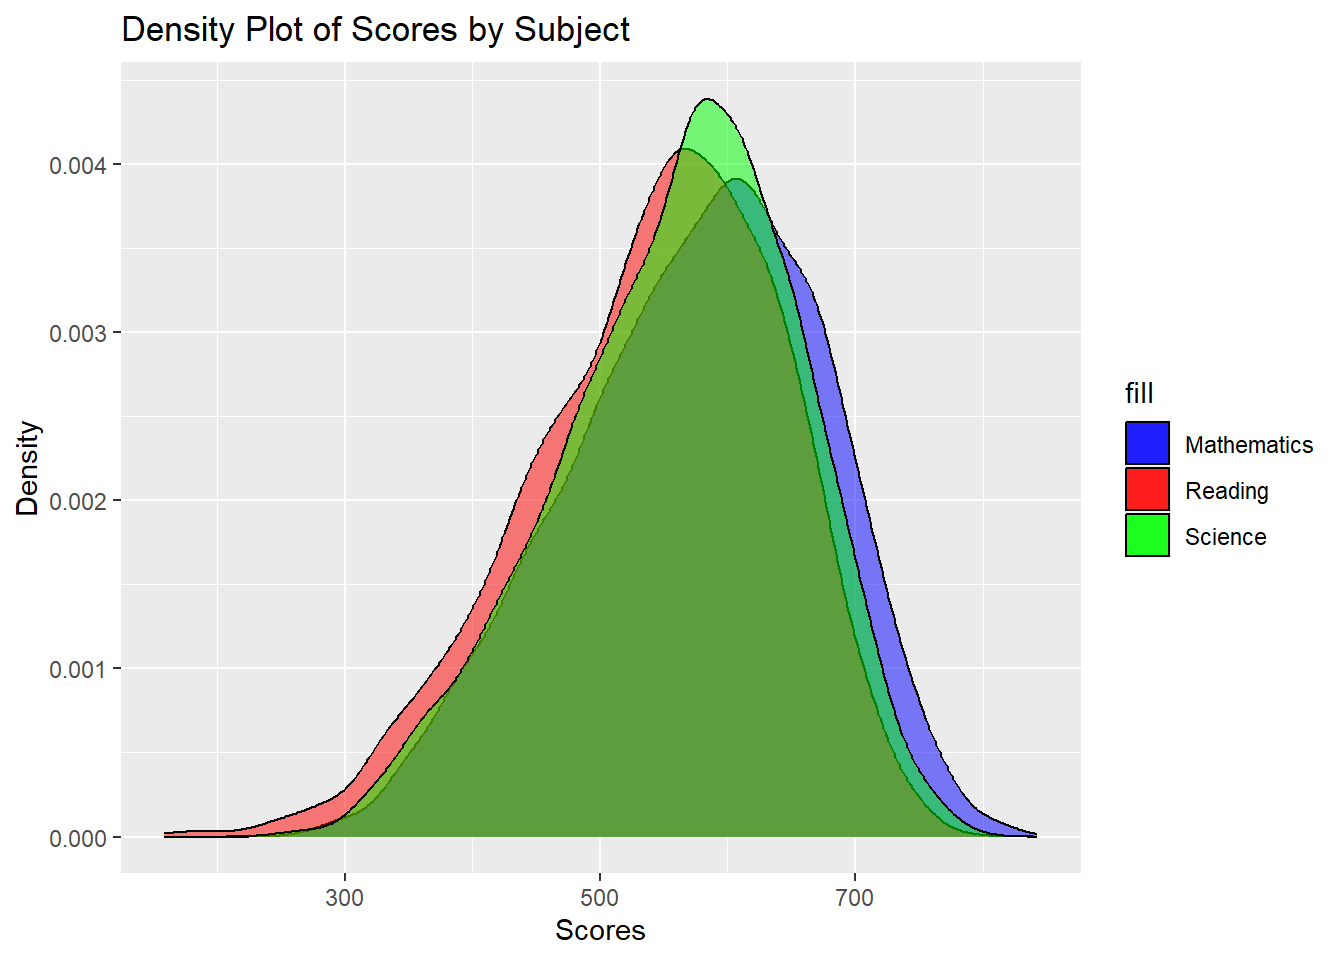
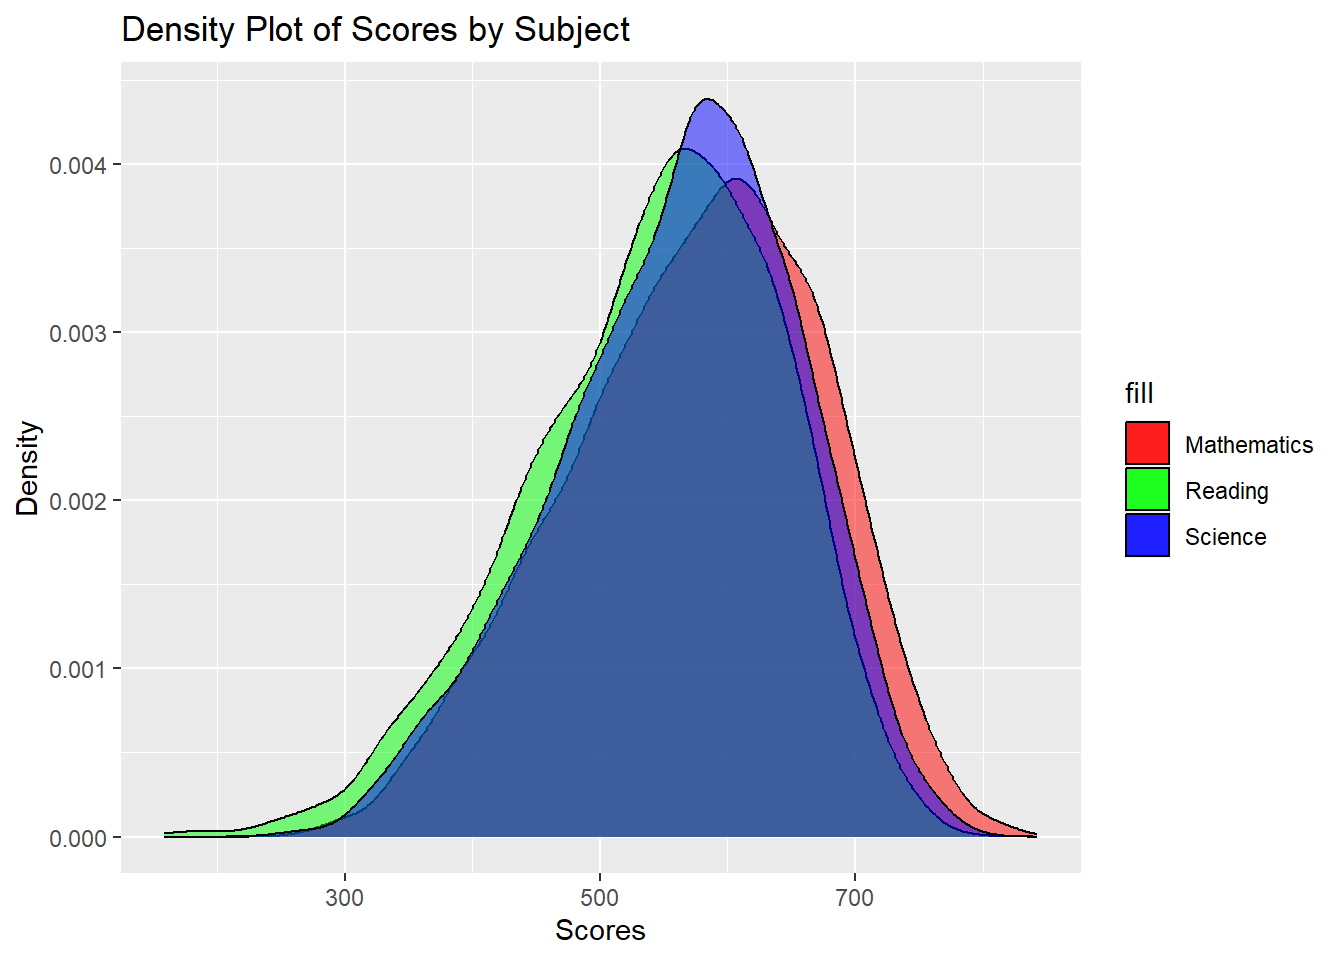
commit after 2update of takehome1

Changed region(s): [[0.125, 0.0938, 0.75, 0.875], [0.8125, 0.4375, 0.875, 0.5938]]

diff --git a/_site/Take-home_Ex/Take-home_ex1.html b/_site/Take-home_Ex/Take-home_ex1.html
@@ -190,11 +190,13 @@ pre > code.sourceCode > span > a:first-child::before { text-decoration: underlin
   </ul></li>
   <li><a href="#exploratory-data-analysis" id="toc-exploratory-data-analysis" class="nav-link" data-scroll-target="#exploratory-data-analysis">3.0 Exploratory Data Analysis</a>
   <ul class="collapse">
-  <li><a href="#distribution-anaylsis" id="toc-distribution-anaylsis" class="nav-link" data-scroll-target="#distribution-anaylsis">3.1 Distribution anaylsis</a></li>
+  <li><a href="#distribution-anaylsis" id="toc-distribution-anaylsis" class="nav-link" data-scroll-target="#distribution-anaylsis">3.1 Distribution Anaylsis</a></li>
   <li><a href="#stacked-density-plot" id="toc-stacked-density-plot" class="nav-link" data-scroll-target="#stacked-density-plot">3.2 Stacked Density Plot</a></li>
-  <li><a href="#boxplot-of-subjects" id="toc-boxplot-of-subjects" class="nav-link" data-scroll-target="#boxplot-of-subjects">3.3 Boxplot of Subjects</a></li>
+  <li><a href="#school-impact-on-singapore-student-subjects-score" id="toc-school-impact-on-singapore-student-subjects-score" class="nav-link" data-scroll-target="#school-impact-on-singapore-student-subjects-score">3.3 School Impact on Singapore Student Subjects Score</a></li>
+  <li><a href="#gender-impact-on-singapore-student-subjects-score" id="toc-gender-impact-on-singapore-student-subjects-score" class="nav-link" data-scroll-target="#gender-impact-on-singapore-student-subjects-score">3.4 Gender Impact on Singapore Student Subjects Score</a></li>
+  <li><a href="#index-of-economic-social-cultural-status-impact-on-singapore-student-subjects-score" id="toc-index-of-economic-social-cultural-status-impact-on-singapore-student-subjects-score" class="nav-link" data-scroll-target="#index-of-economic-social-cultural-status-impact-on-singapore-student-subjects-score">3.5 Index of Economic, Social, Cultural Status Impact on Singapore Student Subjects Score</a></li>
   </ul></li>
-  <li><a href="#summary" id="toc-summary" class="nav-link" data-scroll-target="#summary">4.0 Summary</a></li>
+  <li><a href="#conclusion" id="toc-conclusion" class="nav-link" data-scroll-target="#conclusion">Conclusion</a></li>
   </ul>
 </nav>
     </div>
@@ -230,7 +232,6 @@ pre > code.sourceCode > span > a:first-child::before { text-decoration: underlin
 
 </header>
 
-<p>panel tabset 做tab</p>
 <section id="project-overview" class="level1">
 <h1>1.0 Project Overview</h1>
 <section id="project-brief" class="level2">
@@ -253,7 +254,7 @@ pre > code.sourceCode > span > a:first-child::before { text-decoration: underlin
 <h2 class="anchored" data-anchor-id="install-load-r-packages">2.1 Install &amp; load R packages</h2>
 <p>Installing necessary R packages that will be needed for this exercise. To load the requried packages the code chunk below use pacman::p_load() function is used to unsure that the packages are load to the current R work environment.</p>
 <div class="cell">
-<div class="sourceCode cell-code" id="cb1"><pre class="sourceCode r code-with-copy"><code class="sourceCode r"><span id="cb1-1"><a href="#cb1-1" aria-hidden="true" tabindex="-1"></a>pacman<span class="sc">::</span><span class="fu">p_load</span>(tidyverse, ggplot2, ggthemes, gridExtra, ggrepel, patchwork, hrbrthemes)</span></code><button title="Copy to Clipboard" class="code-copy-button"><i class="bi"></i></button></pre></div>
+<div class="sourceCode cell-code" id="cb1"><pre class="sourceCode r code-with-copy"><code class="sourceCode r"><span id="cb1-1"><a href="#cb1-1" aria-hidden="true" tabindex="-1"></a>pacman<span class="sc">::</span><span class="fu">p_load</span>(tidyverse, ggdist, ggplot2, ggthemes, gridExtra, ggrepel, patchwork, hrbrthemes, dplyr)</span></code><button title="Copy to Clipboard" class="code-copy-button"><i class="bi"></i></button></pre></div>
 </div>
 </section>
 <section id="importing-pisa-data" class="level2">
@@ -280,6 +281,16 @@ pre > code.sourceCode > span > a:first-child::before { text-decoration: underlin
 <span id="cb3-14"><a href="#cb3-14" aria-hidden="true" tabindex="-1"></a><span class="co"># Combine selected columns and new calculations into sg_stu_eda</span></span>
 <span id="cb3-15"><a href="#cb3-15" aria-hidden="true" tabindex="-1"></a>sg_stu_eda <span class="ot">&lt;-</span> <span class="fu">cbind</span>(selected_columns, mean_pv_math, mean_pv_read, mean_pv_scie)</span></code><button title="Copy to Clipboard" class="code-copy-button"><i class="bi"></i></button></pre></div>
 </div>
+<p>Total of 7 Variables are used</p>
+<ul>
+<li><p><strong>CNTSCHID</strong>, (Intl. School ID)</p></li>
+<li><p><strong>ST004D01T</strong>, (Students gender)</p></li>
+<li><p><strong>CNTSTUID</strong>, (Intl. Student ID)</p></li>
+<li><p><strong>ESCS</strong>, (Index of economic, social, and culture status)</p></li>
+<li><p><strong>mean_pv_math</strong>, (average of plausible value 1-10 of mathematics)</p></li>
+<li><p><strong>mean_pv_read</strong>, (average of plausible value 1-10 of reading)</p></li>
+<li><p><strong>mean_pv_scie</strong>, (average of plausible value 1-10 of science)</p></li>
+</ul>
 <div class="cell">
 <div class="sourceCode cell-code" id="cb4"><pre class="sourceCode r code-with-copy"><code class="sourceCode r"><span id="cb4-1"><a href="#cb4-1" aria-hidden="true" tabindex="-1"></a><span class="fu">head</span>(sg_stu_eda,<span class="dv">10</span>)</span></code><button title="Copy to Clipboard" class="code-copy-button"><i class="bi"></i></button></pre></div>
 <div class="cell-output cell-output-stdout">
@@ -301,7 +312,7 @@ pre > code.sourceCode > span > a:first-child::before { text-decoration: underlin
 <section id="exploratory-data-analysis" class="level1">
 <h1>3.0 Exploratory Data Analysis</h1>
 <section id="distribution-anaylsis" class="level2">
-<h2 class="anchored" data-anchor-id="distribution-anaylsis">3.1 Distribution anaylsis</h2>
+<h2 class="anchored" data-anchor-id="distribution-anaylsis">3.1 Distribution Anaylsis</h2>
 <p>Before doing any further analysis, it is always good to look at the distribution of the data, so we can look at the distribution of the three subjects using histograms.</p>
 <div class="tabset-margin-container"></div><div class="panel-tabset">
 <ul class="nav nav-tabs" role="tablist"><li class="nav-item" role="presentation"><a class="nav-link active" id="tabset-1-1-tab" data-bs-toggle="tab" data-bs-target="#tabset-1-1" role="tab" aria-controls="tabset-1-1" aria-selected="true">Distribution of subjects</a></li><li class="nav-item" role="presentation"><a class="nav-link" id="tabset-1-2-tab" data-bs-toggle="tab" data-bs-target="#tabset-1-2" role="tab" aria-controls="tabset-1-2" aria-selected="false">codes</a></li></ul>
@@ -356,19 +367,97 @@ pre > code.sourceCode > span > a:first-child::before { text-decoration: underlin
 <span id="cb7-5"><a href="#cb7-5" aria-hidden="true" tabindex="-1"></a>  <span class="fu">ggtitle</span>(<span class="st">"Density Plot of Scores by Subject"</span>) <span class="sc">+</span></span>
 <span id="cb7-6"><a href="#cb7-6" aria-hidden="true" tabindex="-1"></a>  <span class="fu">xlab</span>(<span class="st">"Scores"</span>) <span class="sc">+</span></span>
 <span id="cb7-7"><a href="#cb7-7" aria-hidden="true" tabindex="-1"></a>  <span class="fu">ylab</span>(<span class="st">"Density"</span>) <span class="sc">+</span></span>
-<span id="cb7-8"><a href="#cb7-8" aria-hidden="true" tabindex="-1"></a>  <span class="fu">scale_fill_manual</span>(<span class="at">values =</span> <span class="fu">c</span>(<span class="st">"Mathematics"</span> <span class="ot">=</span> <span class="st">"blue"</span>, <span class="st">"Reading"</span> <span class="ot">=</span> <span class="st">"red"</span>, <span class="st">"Science"</span> <span class="ot">=</span> <span class="st">"green"</span>))</span></code><button title="Copy to Clipboard" class="code-copy-button"><i class="bi"></i></button></pre></div>
+<span id="cb7-8"><a href="#cb7-8" aria-hidden="true" tabindex="-1"></a>  <span class="fu">scale_fill_manual</span>(<span class="at">values =</span> <span class="fu">c</span>(<span class="st">"Mathematics"</span> <span class="ot">=</span> <span class="st">"red"</span>, <span class="st">"Reading"</span> <span class="ot">=</span> <span class="st">"green"</span>, <span class="st">"Science"</span> <span class="ot">=</span> <span class="st">"blue"</span>))</span></code><button title="Copy to Clipboard" class="code-copy-button"><i class="bi"></i></button></pre></div>
 </div>
 </div>
 </div>
 </div>
-<p>The stacked density plot gives a more clear view on the performance of these three subjects for Singapore students, we can see that it supports the observations we discovered in section 3.1. Singapore students perform mathematics as the</p>
+<p>The density plot reinforces the findings from the distribution analysis, showing that Mathematics is a standout subject for Singapore students, with a distribution indicating not only higher peak scores but also a broader range of high achievers. The overlap between Science and Reading suggests similar performance levels in these subjects, with a less pronounced rightward extension than Mathematics, implying fewer high scorers. The shape and spread of the distributions indicate variability in student performance across all subjects, with Mathematics displaying a potential for both higher peaks and greater spread, hinting at a wider variance in achievement. These visual cues complement the earlier analysis, underscoring Mathematics as a strong suit in the Singapore education system while highlighting the need for continued focus on literacy to address the lower performance and greater variability observed in Reading.</p>
 </section>
-<section id="boxplot-of-subjects" class="level2">
-<h2 class="anchored" data-anchor-id="boxplot-of-subjects">3.3 Boxplot of Subjects</h2>
+<section id="school-impact-on-singapore-student-subjects-score" class="level2">
+<h2 class="anchored" data-anchor-id="school-impact-on-singapore-student-subjects-score">3.3 School Impact on Singapore Student Subjects Score</h2>
+<p>It is also important to examine whether students in different schools exhibit variations in their performance across various subjects, as some schools may excel in teaching certain subjects compared to others. Since the school id has a very large sample, we are using a heatmap to display the significance.</p>
+<div class="tabset-margin-container"></div><div class="panel-tabset">
+<ul class="nav nav-tabs" role="tablist"><li class="nav-item" role="presentation"><a class="nav-link active" id="tabset-3-1-tab" data-bs-toggle="tab" data-bs-target="#tabset-3-1" role="tab" aria-controls="tabset-3-1" aria-selected="true">Heatmap</a></li><li class="nav-item" role="presentation"><a class="nav-link" id="tabset-3-2-tab" data-bs-toggle="tab" data-bs-target="#tabset-3-2" role="tab" aria-controls="tabset-3-2" aria-selected="false">Codes</a></li></ul>
+<div class="tab-content">
+<div id="tabset-3-1" class="tab-pane active" role="tabpanel" aria-labelledby="tabset-3-1-tab">
+<div class="cell">
+<div class="cell-output-display">
+<p><img src="Take-home_ex1_files/figure-html/heatmap-panel, eval- TRUE-1.png" class="img-fluid" width="672"></p>
+</div>
+</div>
+</div>
+<div id="tabset-3-2" class="tab-pane" role="tabpanel" aria-labelledby="tabset-3-2-tab">
+<div class="cell">
+<div class="sourceCode cell-code" id="cb8"><pre class="sourceCode r code-with-copy"><code class="sourceCode r"><span id="cb8-1"><a href="#cb8-1" aria-hidden="true" tabindex="-1"></a>sg_stu_eda_long <span class="ot">&lt;-</span> sg_stu_eda <span class="sc">%&gt;%</span></span>
+<span id="cb8-2"><a href="#cb8-2" aria-hidden="true" tabindex="-1"></a>  <span class="fu">pivot_longer</span>(</span>
+<span id="cb8-3"><a href="#cb8-3" aria-hidden="true" tabindex="-1"></a>    <span class="at">cols =</span> <span class="fu">starts_with</span>(<span class="st">"mean_pv_"</span>), </span>
+<span id="cb8-4"><a href="#cb8-4" aria-hidden="true" tabindex="-1"></a>    <span class="at">names_to =</span> <span class="st">"subject"</span>, </span>
+<span id="cb8-5"><a href="#cb8-5" aria-hidden="true" tabindex="-1"></a>    <span class="at">values_to =</span> <span class="st">"score"</span></span>
+<span id="cb8-6"><a href="#cb8-6" aria-hidden="true" tabindex="-1"></a>  ) <span class="sc">%&gt;%</span></span>
+<span id="cb8-7"><a href="#cb8-7" aria-hidden="true" tabindex="-1"></a>  <span class="fu">mutate</span>(<span class="at">CNTSCHID =</span> <span class="fu">as.factor</span>(CNTSCHID), </span>
+<span id="cb8-8"><a href="#cb8-8" aria-hidden="true" tabindex="-1"></a>         <span class="at">subject =</span> <span class="fu">factor</span>(subject, <span class="at">levels =</span> <span class="fu">c</span>(<span class="st">"mean_pv_math"</span>, <span class="st">"mean_pv_read"</span>, <span class="st">"mean_pv_scie"</span>),</span>
+<span id="cb8-9"><a href="#cb8-9" aria-hidden="true" tabindex="-1"></a>                          <span class="at">labels =</span> <span class="fu">c</span>(<span class="st">"Mathematics"</span>, <span class="st">"Reading"</span>, <span class="st">"Science"</span>)))</span>
+<span id="cb8-10"><a href="#cb8-10" aria-hidden="true" tabindex="-1"></a></span>
+<span id="cb8-11"><a href="#cb8-11" aria-hidden="true" tabindex="-1"></a><span class="fu">ggplot</span>(sg_stu_eda_long, <span class="fu">aes</span>(<span class="at">x =</span> CNTSCHID, <span class="at">y =</span> subject, <span class="at">fill =</span> score)) <span class="sc">+</span></span>
+<span id="cb8-12"><a href="#cb8-12" aria-hidden="true" tabindex="-1"></a>  <span class="fu">geom_tile</span>() <span class="sc">+</span></span>
+<span id="cb8-13"><a href="#cb8-13" aria-hidden="true" tabindex="-1"></a>  <span class="fu">scale_fill_gradient</span>(<span class="at">low =</span> <span class="st">"white"</span>, <span class="at">high =</span> <span class="st">"blue"</span>) <span class="sc">+</span>  <span class="co"># Adjust the color scale as needed</span></span>
+<span id="cb8-14"><a href="#cb8-14" aria-hidden="true" tabindex="-1"></a>  <span class="fu">theme_minimal</span>() <span class="sc">+</span></span>
+<span id="cb8-15"><a href="#cb8-15" aria-hidden="true" tabindex="-1"></a>  <span class="fu">labs</span>(<span class="at">x =</span> <span class="st">"School ID"</span>, <span class="at">y =</span> <span class="st">"Subject"</span>, </span>
+<span id="cb8-16"><a href="#cb8-16" aria-hidden="true" tabindex="-1"></a>       <span class="at">title =</span> <span class="st">"Heatmap of Subject Scores Across Schools"</span>)</span></code><button title="Copy to Clipboard" class="code-copy-button"><i class="bi"></i></button></pre></div>
+</div>
+</div>
+</div>
+</div>
+<p>From the heatmap presented earlier, several noteworthy observations can be made. Firstly, it’s evident that students from certain schools consistently maintain similar scores across all three subjects. However, in other schools, there is a noticeable trend where science and mathematics scores are higher, while reading scores appear to be comparatively lower.</p>
+<p>Furthermore, it’s interesting to note that schools achieving high scores in mathematics also tend to perform well in science, suggesting a potential correlation between these two subjects. Additionally, there are instances, albeit rare, where certain schools excel in reading, outperforming their scores in the other two subjects. These observations indicate the presence of distinct patterns and potentially valuable insights into the performance of students across different schools and subjects.</p>
+</section>
+<section id="gender-impact-on-singapore-student-subjects-score" class="level2">
+<h2 class="anchored" data-anchor-id="gender-impact-on-singapore-student-subjects-score">3.4 Gender Impact on Singapore Student Subjects Score</h2>
+<p>Next, we examine the gender impact on Singapore student’s different subject scores, as from what most people typically knows different gender perform differently in certain subjects, so it is important to check that if gender shows significance on the subjects score.</p>
+<div class="tabset-margin-container"></div><div class="panel-tabset">
+<ul class="nav nav-tabs" role="tablist"><li class="nav-item" role="presentation"><a class="nav-link active" id="tabset-4-1-tab" data-bs-toggle="tab" data-bs-target="#tabset-4-1" role="tab" aria-controls="tabset-4-1" aria-selected="true">Boxplot</a></li><li class="nav-item" role="presentation"><a class="nav-link" id="tabset-4-2-tab" data-bs-toggle="tab" data-bs-target="#tabset-4-2" role="tab" aria-controls="tabset-4-2" aria-selected="false">Codes</a></li></ul>
+<div class="tab-content">
+<div id="tabset-4-1" class="tab-pane active" role="tabpanel" aria-labelledby="tabset-4-1-tab">
+<div class="cell">
+<div class="cell-output-display">
+<p><img src="Take-home_ex1_files/figure-html/boxplot-panel, eval- TRUE-1.png" class="img-fluid" width="672"></p>
+</div>
+</div>
+</div>
+<div id="tabset-4-2" class="tab-pane" role="tabpanel" aria-labelledby="tabset-4-2-tab">
+<div class="cell">
+<div class="sourceCode cell-code" id="cb9"><pre class="sourceCode r code-with-copy"><code class="sourceCode r"><span id="cb9-1"><a href="#cb9-1" aria-hidden="true" tabindex="-1"></a>sg_stu_eda_long<span class="sc">$</span>ST004D01T <span class="ot">&lt;-</span> <span class="fu">factor</span>(sg_stu_eda_long<span class="sc">$</span>ST004D01T, <span class="at">levels =</span> <span class="fu">c</span>(<span class="st">"1"</span>, <span class="st">"2"</span>), <span class="at">labels =</span> <span class="fu">c</span>(<span class="st">"Female"</span>, <span class="st">"Male"</span>))</span>
+<span id="cb9-2"><a href="#cb9-2" aria-hidden="true" tabindex="-1"></a></span>
+<span id="cb9-3"><a href="#cb9-3" aria-hidden="true" tabindex="-1"></a><span class="fu">ggplot</span>(sg_stu_eda_long, <span class="fu">aes</span>(<span class="at">x =</span> ST004D01T, <span class="at">y =</span> score, <span class="at">fill =</span> subject)) <span class="sc">+</span></span>
+<span id="cb9-4"><a href="#cb9-4" aria-hidden="true" tabindex="-1"></a>  <span class="fu">geom_boxplot</span>(<span class="at">position =</span> <span class="fu">position_dodge</span>(<span class="dv">1</span>)) <span class="sc">+</span></span>
+<span id="cb9-5"><a href="#cb9-5" aria-hidden="true" tabindex="-1"></a>  <span class="fu">stat_summary</span>(<span class="at">fun =</span> mean, <span class="at">geom =</span> <span class="st">"point"</span>, <span class="at">shape =</span> <span class="dv">20</span>, <span class="at">size =</span> <span class="dv">3</span>, <span class="at">color =</span> <span class="st">"darkred"</span>, <span class="at">position =</span> <span class="fu">position_dodge</span>(<span class="dv">1</span>)) <span class="sc">+</span></span>
+<span id="cb9-6"><a href="#cb9-6" aria-hidden="true" tabindex="-1"></a>  <span class="fu">stat_summary</span>(<span class="at">fun =</span> mean, <span class="at">geom =</span> <span class="st">"text"</span>, <span class="fu">aes</span>(<span class="at">label =</span> <span class="fu">round</span>(..y.., <span class="dv">1</span>)), <span class="at">vjust =</span> <span class="fl">1.5</span>, <span class="at">color=</span><span class="st">"darkblue"</span>,<span class="at">position=</span><span class="fu">position_dodge</span>(<span class="dv">1</span>)) <span class="sc">+</span></span>
+<span id="cb9-7"><a href="#cb9-7" aria-hidden="true" tabindex="-1"></a>  <span class="fu">stat_summary</span>(<span class="at">fun =</span> median, <span class="at">geom =</span> <span class="st">"line"</span>, <span class="at">size =</span> <span class="fl">0.5</span>, <span class="at">color =</span> <span class="st">"darkblue"</span>, <span class="at">position =</span> <span class="fu">position_dodge</span>(<span class="dv">1</span>)) <span class="sc">+</span></span>
+<span id="cb9-8"><a href="#cb9-8" aria-hidden="true" tabindex="-1"></a>  <span class="fu">theme_minimal</span>() <span class="sc">+</span></span>
+<span id="cb9-9"><a href="#cb9-9" aria-hidden="true" tabindex="-1"></a>  <span class="fu">theme</span>(<span class="at">axis.text.x =</span> <span class="fu">element_text</span>(<span class="at">angle =</span> <span class="dv">90</span>, <span class="at">hjust =</span> <span class="dv">1</span>), </span>
+<span id="cb9-10"><a href="#cb9-10" aria-hidden="true" tabindex="-1"></a>        <span class="at">legend.position =</span> <span class="st">"bottom"</span>) <span class="sc">+</span></span>
+<span id="cb9-11"><a href="#cb9-11" aria-hidden="true" tabindex="-1"></a>  <span class="fu">labs</span>(<span class="at">x =</span> <span class="st">"Gender"</span>, <span class="at">y =</span> <span class="st">"Score"</span>, </span>
+<span id="cb9-12"><a href="#cb9-12" aria-hidden="true" tabindex="-1"></a>       <span class="at">title =</span> <span class="st">"Boxplot of Subject Scores Across Gender"</span>, </span>
+<span id="cb9-13"><a href="#cb9-13" aria-hidden="true" tabindex="-1"></a>       <span class="at">fill =</span> <span class="st">"Subjects"</span>)</span></code><button title="Copy to Clipboard" class="code-copy-button"><i class="bi"></i></button></pre></div>
+</div>
+</div>
+</div>
+</div>
+<ul>
+<li><p>Mathematics: Males exhibit a higher average score compared to females, with the mean score for males being approximately 11 points higher. This suggests a notable performance advantage for males in mathematics within this sample.</p></li>
+<li><p>Reading: Females outperform males by a substantial margin, with their average score being approximately 20 points higher. This considerable difference highlights a stronger performance in reading for females.</p></li>
+<li><p>Science: Males again have a higher average score, with the difference being approximately 6 points. While this advantage is less pronounced than in mathematics, it still indicates better performance by males in science.</p></li>
+</ul>
+<p>The interquartile range (IQR), which represents the middle 50% of scores, are different across genders for each subject. Males tend to have larger IQR across all subject compare to female, a larger IQR indicates more variability in student performance.The presence of outliers, as indicated by points beyond the whiskers of the boxplots, suggesting that there are students with scores that are unusually low or high compared to their peers.</p>
+<p>Further analysis might be needed: Adding confidence intervals around the mean could provide insight into the statistical significance of the differences in means between genders.</p>
+</section>
+<section id="index-of-economic-social-cultural-status-impact-on-singapore-student-subjects-score" class="level2">
+<h2 class="anchored" data-anchor-id="index-of-economic-social-cultural-status-impact-on-singapore-student-subjects-score">3.5 Index of Economic, Social, Cultural Status Impact on Singapore Student Subjects Score</h2>
 </section>
 </section>
-<section id="summary" class="level1">
-<h1>4.0 Summary</h1>
+<section id="conclusion" class="level1">
+<h1>Conclusion</h1>
 
 
 </section>
